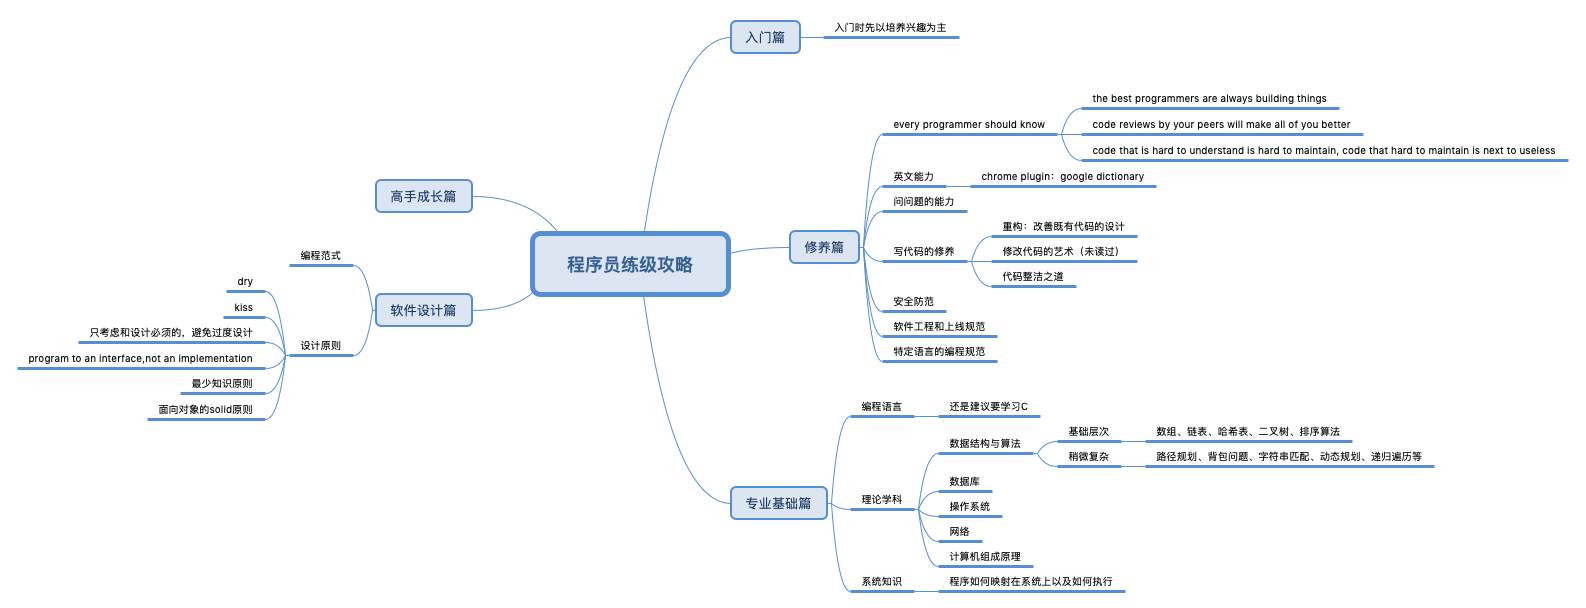
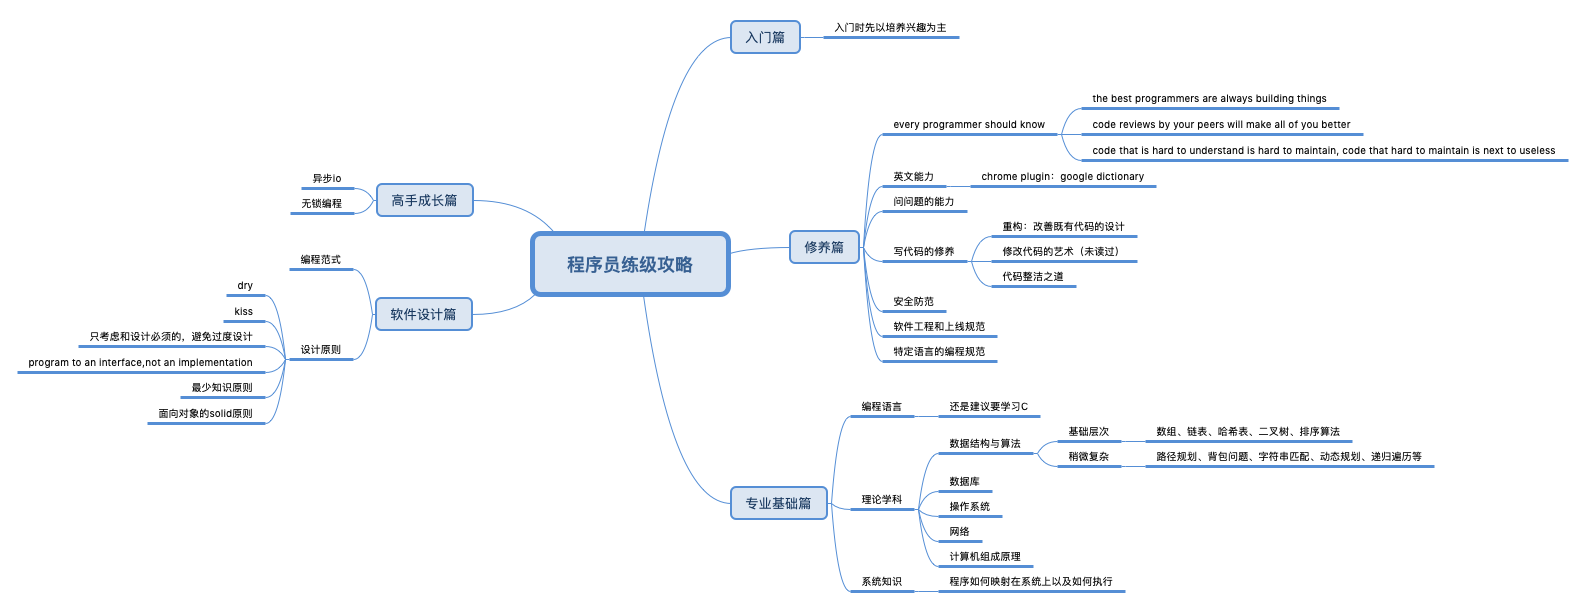
[fix]add doc

Changed region(s): [[0.0, 0.4062, 0.3398, 0.7188], [0.1854, 0.2812, 0.3398, 0.375]]

diff --git a/_posts/Technology/Netty/2017-10-13-learn_netty.md b/_posts/Technology/Netty/2017-10-13-learn_netty.md
@@ -10,8 +10,25 @@ keywords: JAVA netty
 
 ## 前言
 
-到目前为止，笔者关于netty写了十几篇博客，内容非常零碎，笔者一直想着有一个总纲的东西来作为主干，来将这些零碎place it in context。所以梳理了一张图，从上往下“俯视”看，netty有哪些东西?
+到目前为止，笔者关于netty写了十几篇博客，内容非常零碎，笔者一直想着有一个总纲的东西来作为主干，将这些零碎place it in context。所以梳理了一张图，从上往下“俯视”看，netty有哪些东西?
 
 ![](/public/upload/netty/learn_netty.png)
 
-当这个图有一个雏形时，笔者突然有了一个意外收获，心中很久以来的疑惑也得到了解答。那就是为什么很多人会觉得学习netty代码比较难（这也是笔者最初的感受）？**因为对于很多人来说，是先接触了netty，才第一次接触nio、同步操作异步化 等技术/套路，也就是上图“核心” 部分的东西才第一次接触，除了要理解netty代码本身的抽象之外，还需理解很多新概念。**并且，极易形成的错误观念是：因为netty是这样用的，便容易认为这些“新概念特性”只能这样用。比如，一想起nio便认为只能像netty那样用，但hadoop中传输文件块的代码 便与netty对nio的应用方式有所不同。 
+当这个图画了一个雏形时，笔者突然有了一个意外收获，心中很久以来的疑惑也得到了解答，那就是为什么很多人会觉得学习netty代码比较难（这也是笔者最初的感受）？**因为对于大部分人来说，是先接触了netty，才第一次接触nio、同步操作异步化 等技术/套路，也就是上图“核心” 部分的东西，除了要理解netty代码本身的抽象之外，还需理解很多新概念。**并且，极易形成的错误观念是：因为netty是这样用的，便容易认为这些“新概念特性”只能这样用。比如，一想起nio便认为只能像netty那样用，但hadoop中传输文件块的代码 便与netty对nio的应用方式有所不同。 
+
+有了上图为总纲，先了解上图左侧的核心部分，再有针对性的阅读笔者先前的博客或netty的源码，心中有“成竹”而不是一堆琐碎，剩下的便是右侧的netty实现细节了，感受上应该会容易许多。
+
+reactor pattern 理念 参见 [Understanding Reactor Pattern: Thread-Based and Event-Driven](https://dzone.com/articles/understanding-reactor-pattern-thread-based-and-eve)，并且建议你读三遍。任何框架，一定都是先有了理念和思想，然后体现在代码上。看代码之前，找到那个理念和思想。
+
+
+1. 阻塞io 无论怎么玩，Unfortunately, there is always a one-to-one relationship between connections and threads
+1. Event-driven approach can separate threads from connections, which only uses threads for events on specific callbacks/handlers.
+2. An event-driven architecture consists of event creators and event consumers. The creator, which is the source of the event, only knows that the event has occurred. Consumers are entities that need to know the event has occurred. They may be involved in processing the event or they may simply be affected by the event.
+3. The reactor pattern is one implementation technique of the event-driven architecture. **In simple words, it uses a single threaded event loop blocking on resources emitting events and dispatches them to corresponding handlers/callbacks.**
+4. **There is no need to block on I/O, as long as handlers/callbacks for events are registered to take care of them.** Events are like incoming a new connection, ready for read, ready for write, etc.
+5. This pattern decouples modular application-level code from reusable reactor implementation.
+6. The purpose of the Reactor design pattern is to avoid the common problem of creating a thread for each message/request/connection.Avoid this problem is to avoid the famous and known problem C10K.
+
+个人微信订阅号
+
+![](/public/upload/qrcode_for_gh.jpg)

diff --git a/_posts/Life/2017-03-31-articles.md b/_posts/Life/2017-03-31-articles.md
@@ -104,3 +104,8 @@ keywords: 生活 程序员 户外
 10. 如果想要这样理想的人生，我们必须赢得理智与生理之间的斗争。那么，了解阻力发挥作用的机制，然后克服阻力，就显得尤为关键。
 11. 我们不如回顾一下自己每天做出的决定吧。哪些决定中，理智和行动是相符的？哪些是两者方向不同的？我们在做出哪些决定的时候，真正用上了自己身为人类的超能力，用上了自己的理智和智力？哪些是为了一时的满足，鼠目寸光的决定呢？
 12. 当我们真正意识到这些问题，意识到自己的理智和实际行动之间的偏差，我们就能理解，为什么自己没有按照自己的想法行事。在头脑清醒的情况下，我们才知道如何看待自然选择，在感谢她带给我们生命的同时，也明确地知道，自然选择在我们运行机制中捣的鬼，我们还得自己收拾。
+
+
+## 视频
+
+今日资本徐新：企业创始人要有杀手直觉，够快够狠

diff --git a/_posts/Technology/Linux/2017-04-16-linux_io.md b/_posts/Technology/Linux/2017-04-16-linux_io.md
@@ -172,6 +172,9 @@ POSIX规范定义了一组异步操作I/O的接口，不用关心fd 是阻塞还
 ![](/public/upload/linux/linux_io_7.png)
 
 
+陈皓在《左耳听风》中提到：异步io模型的发展技术是：select -> poll -> epoll -> aio -> libevent -> libuv。其演化思想参见： [Understanding Reactor Pattern: Thread-Based and Event-Driven](https://dzone.com/articles/understanding-reactor-pattern-thread-based-and-eve)
+
+
 ## select
 
 java nio中，介绍channel用的是：A nexus（连结、连系） for I/O operations.那么selector便是 a nexus for `int select(int nfds, fd_set *readfds, fd_set *writefds,fd_set *exceptfds, struct timeval *timeout);`

diff --git a/_posts/Technology/Docker/2017-08-25-docker_debug.md b/_posts/Technology/Docker/2017-08-25-docker_debug.md
@@ -99,6 +99,12 @@ keywords: Docker
 
 **若想进一步降低内存占用，可以进一步抬高MinHeapFreeRatio的值，降低MaxHeapFreeRatio的值，但这样会增大jvm resize heap的次数**
 
+## cpu
+
+[有赞容器化实践](https://segmentfault.com/a/1190000016551255)
+
+jvm 在容器内看到的cpu数不准确，会导致什么问题呢？jvm 以及很多 Java sdk 都会根据系统的 CPU 数来决定创建多少线程
+
 ## 2 Container stuck, can't be stopped or killed, can't exec into it either
 
 jdk6 编译的项目运行在jdk8上
